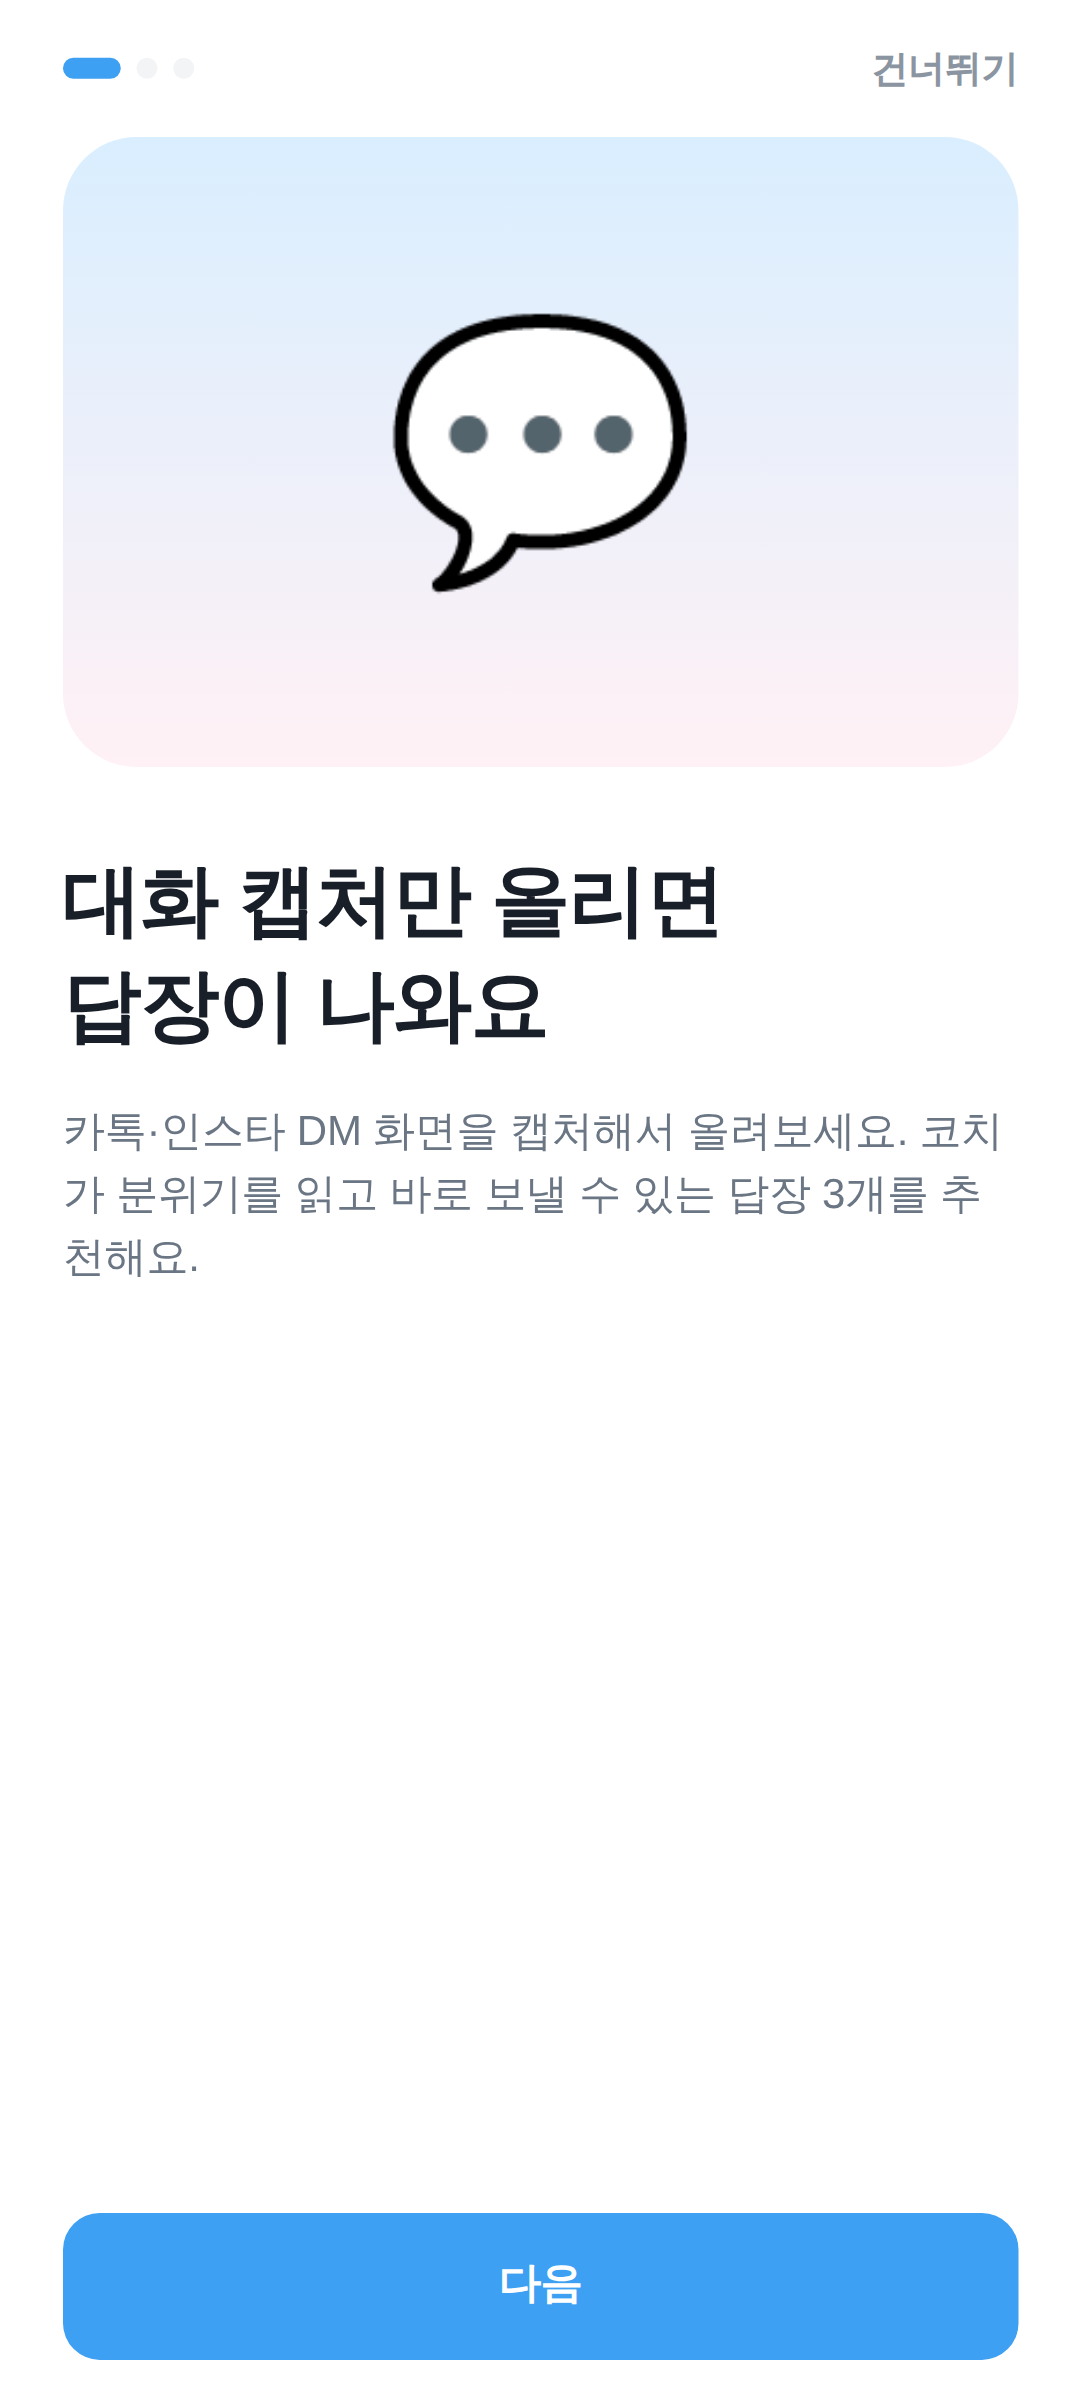
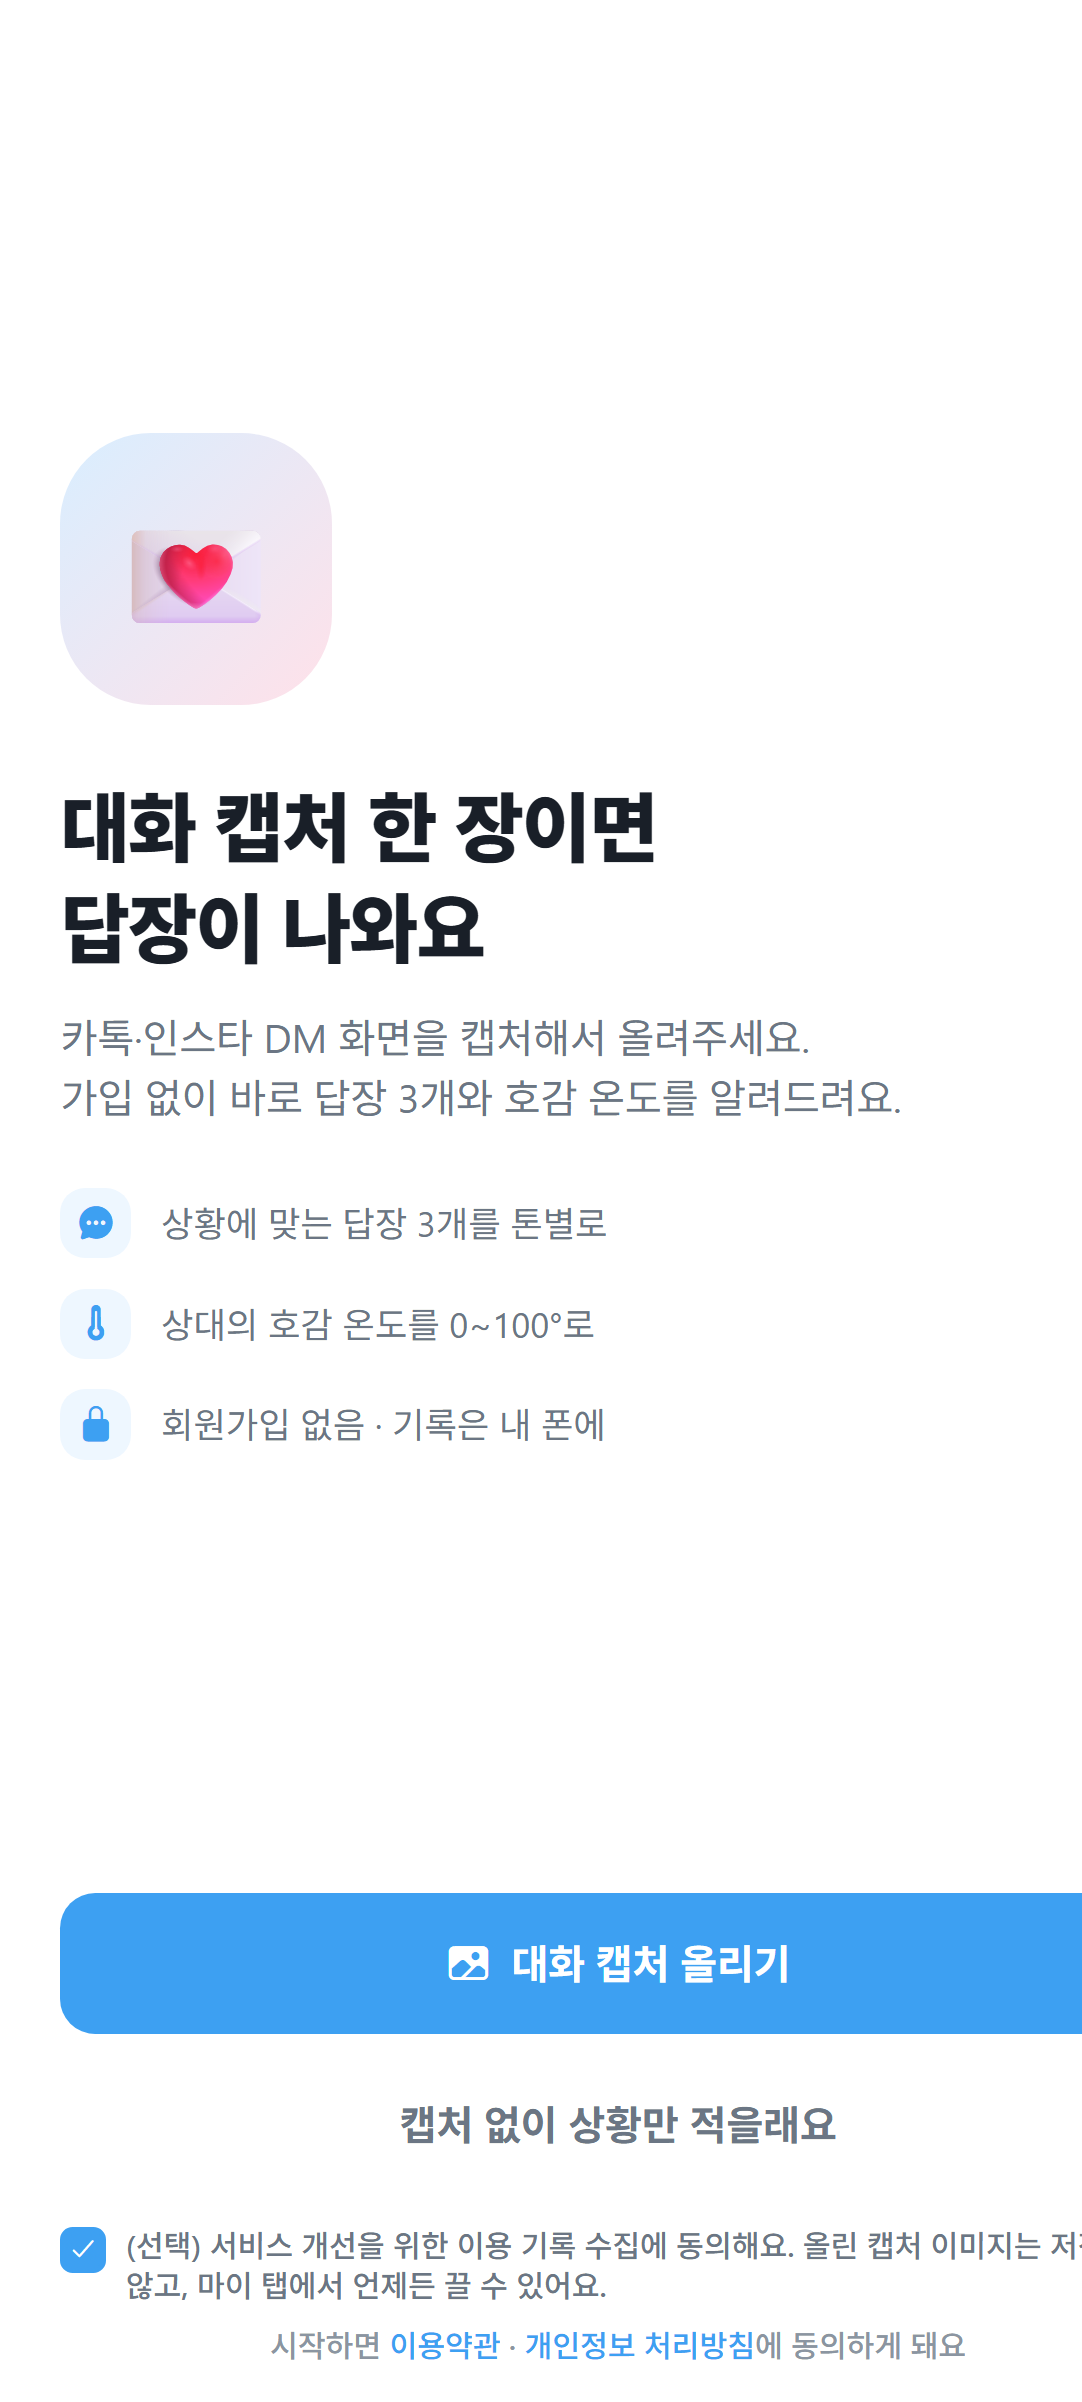
store: 새 첫 화면으로 스크린샷 교체, 심사 메모를 캡처 우선 흐름으로 갱신

diff --git a/scripts/make-store-shots.py b/scripts/make-store-shots.py
@@ -24,7 +24,7 @@ SHOTS = [
     ("4-new-crush.png", "MBTI·성향까지\n상대 맞춤 코칭"),
     ("2-home.png", "상대마다 따로,\n나만의 채팅방"),
     ("6-tips.png", "바로 써먹는\n연애 팁 모음"),
-    ("1-onboarding.png", "회원가입 없이\n바로 시작해요"),
+    ("1-onboarding.png", "가입 없이\n캡처만 올리면 끝"),
 ]
 
 TOP = (234, 245, 255)  # 하늘색

diff --git a/docs/STORE_LISTING.md b/docs/STORE_LISTING.md
@@ -47,9 +47,11 @@
 ## 심사 메모 (Review Notes)
 
 - 앱은 회원가입/로그인이 없어 테스트 계정이 필요 없습니다.
-- 온보딩에서 이름을 입력하고 "시작하기" → "+" 로 상대를 등록 → 채팅방에서 대화 캡처(갤러리의 아무 채팅 스크린샷)를 올리면 AI 코칭 결과가 표시됩니다.
+- 앱을 열면 바로 첫 화면이 나옵니다. 「대화 캡처 올리기」를 누르고 갤러리에서 아무 채팅 스크린샷이나 고르면, 별도 입력 없이 곧바로 AI 코칭 결과(상황 요약 · 호감 온도 · 추천 답장 3개)가 표시됩니다. 캡처가 없으면 「캡처 없이 상황만 적을래요」로 글만 적어도 됩니다.
+- 상대의 이름·MBTI·관계 단계는 첫 결과를 본 뒤에 선택적으로 입력하는 항목이며, 입력하지 않아도 모든 기능을 쓸 수 있습니다.
 - AI 처리는 자사 중계 서버를 거쳐 Google Gemini API 를 사용하며, 업로드한 이미지는 분석에만 사용되고 자사 서버에 저장되지 않습니다.
 - 이 앱은 사용자가 직접 선택한 이미지만 접근하며 백그라운드 접근이 없습니다.
+- (선택) 첫 화면의 체크박스로 동의한 경우에만 이용 기록(화면 체류 시간, 입력한 상황 글, 코치 답변 요약)을 서비스 개선용으로 저장합니다. 업로드한 이미지 자체는 저장하지 않으며, 마이 탭에서 언제든 끌 수 있습니다.
 - 인앱결제: 무료 코칭(처음 3회 + 이후 하루 1회)을 다 쓰면 프리미엄 안내 화면이 나타납니다. 마이 탭 → 「프리미엄 시작하기」에서도 언제든 열 수 있습니다. 상품은 주간 자동 갱신 구독(mylovecoach.premium.weekly)과 비소모성 평생권(mylovecoach.premium.lifetime) 두 가지이며, 같은 화면에 구매 복원·이용약관·개인정보 처리방침 링크가 있습니다.
 
 ## 스크린샷 캡션 제안 (5장)
